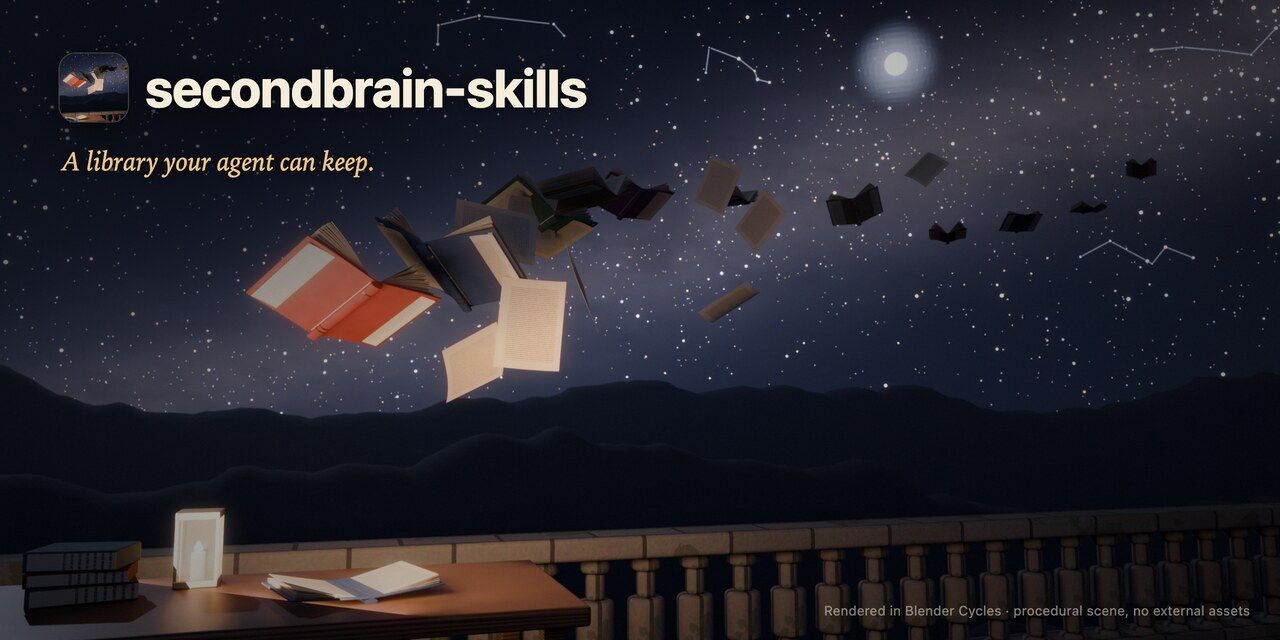
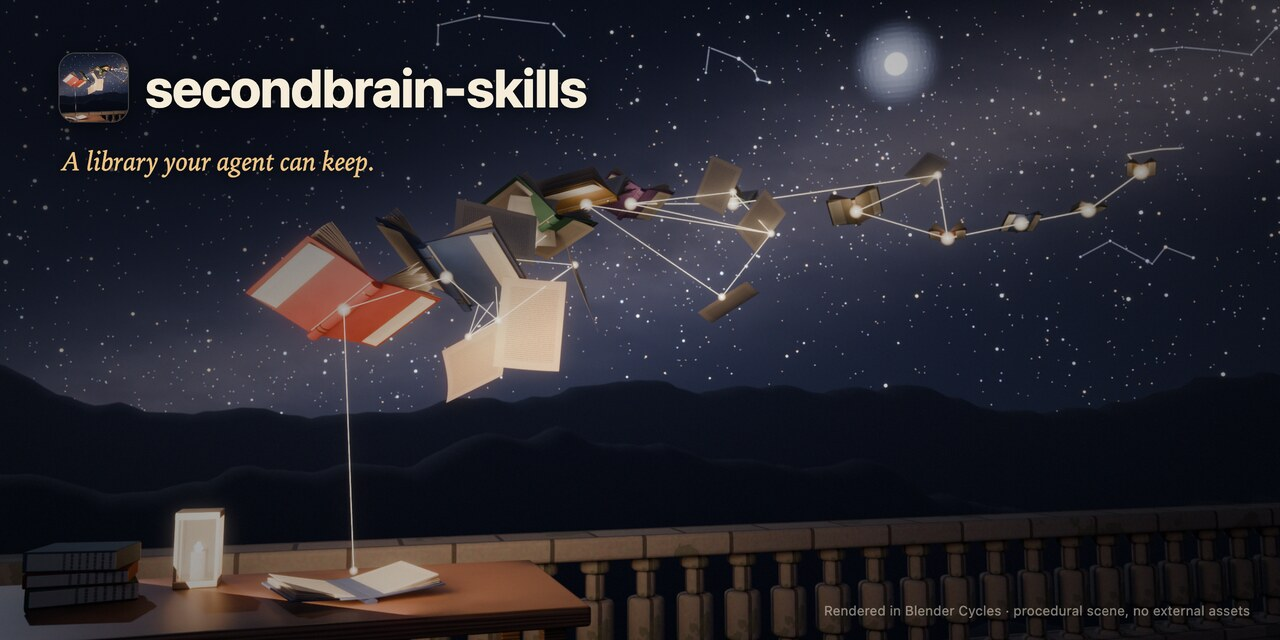
art: link the flying books into a constellation network
Fine straight lines of light, kept at a constant on-screen width, join the
flying books, the loose pages and the open book on the desk into one
network (a spanning tree plus short cross-links); the farthest book links
on into the stars. Each book carries a soft glint so the flock reads as a
constellation.

Checked: python3 scripts/validate.py and claude plugin validate . --strict
pass; render inspected visually.

diff --git a/scripts/art/showcase.py b/scripts/art/showcase.py
@@ -503,6 +503,88 @@ def baluster(x, y, stone):
         o.data.materials.append(stone)
 
 
+# ------------------------------------------------------------------ connections
+def connect(flock, leaves, cam, bright, at, source=None):
+    """The books become stars: a glint in front of each book and fine straight links between them,
+    drawn at a constant on-screen width, with the lead book linked on into a constellation."""
+    rc = random.Random(5)
+    nodes = [p + (cam - p).normalized() * 0.22 for p in flock] + [p + (cam - p).normalized() * 0.08 for p in leaves]
+    n_books = len(flock)
+    # minimum spanning tree plus a few extra short links, so it reads as a network, not a chain
+    inside, edges = {0}, set()
+    while len(inside) < len(nodes):
+        i, j = min(((i, j) for i in inside for j in range(len(nodes)) if j not in inside), key=lambda e: (nodes[e[0]] - nodes[e[1]]).length)
+        edges.add(tuple(sorted((i, j))))
+        inside.add(j)
+    for i in range(len(nodes)):
+        for j in sorted(range(len(nodes)), key=lambda j: (nodes[j] - nodes[i]).length)[1:4]:
+            if rc.random() < 0.6 and (nodes[j] - nodes[i]).length < 3.5:
+                edges.add(tuple(sorted((i, j))))
+    # carry the network on into the sky: the farthest book links to the nearest bright stars
+    lead = max(range(n_books), key=lambda i: (nodes[i] - cam).length)
+    sky = sorted(bright, key=lambda b: (b[0] - cam).normalized().angle((nodes[lead] - cam).normalized()))[:3]
+    sky_pts = [b[0] for b in sky]
+    cu = bpy.data.curves.new("links", "CURVE")
+    cu.dimensions = "3D"
+    cu.bevel_depth = 1.0
+    cu.bevel_resolution = 2
+
+    def seg(a, b):
+        sp = cu.splines.new("POLY")
+        sp.points.add(1)
+        for k, q in enumerate((a, b)):
+            sp.points[k].co = (*q, 1)
+            sp.points[k].radius = (q - cam).length * 0.00026
+    for i, j in edges:
+        seg(nodes[i], nodes[j])
+    if source is not None:
+        first = min(range(n_books), key=lambda i: (nodes[i] - source).length)
+        seg(source, nodes[first])
+        nodes.append(source)
+    prev = nodes[lead]
+    for q in sky_pts:
+        seg(prev, q)
+        prev = q
+    lo = link("links", cu)
+    lm = emissive("link_light", (1.0, 0.78, 0.50), 3.2)
+    lo.data.materials.append(lm)
+    lo.visible_shadow = False
+    # glints: a bright core and a soft halo at every book-node and at the stars it reaches
+    core = emissive("node_core", (1.0, 0.90, 0.72), 30.0)
+    hm = bpy.data.materials.new("node_halo")
+    hm.use_nodes = True
+    hn = hm.node_tree
+    hn.nodes.remove(hn.nodes["Principled BSDF"])
+    lw = node(hn, "ShaderNodeLayerWeight", Blend=0.5)
+    em = node(hn, "ShaderNodeEmission", Color=(1.0, 0.72, 0.40, 1))
+    hn.links.new(mathn(hn, "MULTIPLY", mathn(hn, "POWER", mathn(hn, "SUBTRACT", 1.0, lw.outputs["Facing"]), 5.0), 1.6), em.inputs["Strength"])
+    tr = hn.nodes.new("ShaderNodeBsdfTransparent")
+    add = hn.nodes.new("ShaderNodeAddShader")
+    hn.links.new(tr.outputs[0], add.inputs[0])
+    hn.links.new(em.outputs[0], add.inputs[1])
+    hn.links.new(add.outputs[0], hn.nodes["Material Output"].inputs["Surface"])
+    bc, bh = bmesh.new(), bmesh.new()
+    for k, q in enumerate(nodes):
+        d = (q - cam).length
+        s = 1.0 if k < n_books else 0.6
+        bmesh.ops.create_icosphere(bc, subdivisions=2, radius=d * 0.0011 * s, matrix=Matrix.Translation(q))
+        bmesh.ops.create_icosphere(bh, subdivisions=3, radius=d * 0.008 * s, matrix=Matrix.Translation(q))
+    for nm, bmx, m in (("node_cores", bc, core), ("node_halos", bh, hm)):
+        me = bpy.data.meshes.new(nm)
+        bmx.to_mesh(me)
+        bmx.free()
+        o = link(nm, me)
+        o.data.materials.append(m)
+        o.visible_shadow = False
+    # a little light from each node onto its book
+    for q in nodes[:n_books]:
+        ld = bpy.data.lights.new("nodelight", "POINT")
+        ld.energy = 1.2
+        ld.color = (1.0, 0.75, 0.45)
+        ld.shadow_soft_size = 0.05
+        link("nodelight", ld).location = q
+
+
 # ------------------------------------------------------------------ scene
 def build():
     sc = reset()
@@ -589,6 +671,7 @@ def build():
     so.rotation_euler = (math.radians(62), 0, math.radians(200))
 
     # books in flight: from the desk over the balustrade toward the moon
+    flock, leaves = [], []
     n = 11
     for k in range(n):
         tt = k / (n - 1)
@@ -598,11 +681,14 @@ def build():
         p = at(u, v, depth)
         rot = (math.radians(rnd.uniform(-30, 10)), math.radians(rnd.uniform(-20, 20)), math.radians(rnd.uniform(-50, 50)))
         cd = rnd.uniform(4, 22)
+        flock.append(p)
         book(f"fly{k}", p, rot, rnd.uniform(1.4, 1.8), covers[k % len(covers)], paper, gold, rnd, cd, cd + rnd.uniform(18, 38), bend=-0.35)
     for k in range(9):
         tt = rnd.uniform(0.02, 0.75)
         p = at(0.27 + 0.6 * tt + rnd.uniform(-0.07, 0.07), 0.42 + 0.4 * tt + rnd.uniform(-0.08, 0.08), 2.3 + 9 * tt ** 1.4)
         loose_page(f"loose{k}", p, (rnd.uniform(0, 6), rnd.uniform(0, 6), rnd.uniform(0, 6)), 1.5, paper, rnd)
+        leaves.append(p)
+    connect(flock, leaves, cam, bright, at, Vector((-1.05, 0.85, top + 0.06)))
     # warm bounce from the lantern side onto the nearest books
     fill = bpy.data.lights.new("lanternfill", "AREA")
     fill.energy = 38

diff --git a/README.ko.md b/README.ko.md
@@ -1,5 +1,5 @@
 <p align="center">
-  <img src="assets/brand/splash.jpg" alt="달빛 비치는 돌 테라스의 촛불 켠 책상에서, 은하수와 별자리 아래로 펼친 책들이 난간 너머 날아가는 Blender 렌더" width="100%">
+  <img src="assets/brand/splash.jpg" alt="달빛 비치는 돌 테라스의 촛불 켠 책상에서 펼친 책들이 은하수 아래로 날아가고, 가는 빛의 선이 책들을 서로 이어 별자리로 이어지는 Blender 렌더" width="100%">
 </p>
 
 <p align="center">

diff --git a/README.md b/README.md
@@ -1,5 +1,5 @@
 <p align="center">
-  <img src="assets/brand/splash.jpg" alt="A Blender render: from a candlelit desk on a moonlit stone terrace, open books fly out over the balustrade under the Milky Way and constellations" width="100%">
+  <img src="assets/brand/splash.jpg" alt="A Blender render: from a candlelit desk on a moonlit stone terrace, open books fly out under the Milky Way, linked to one another by fine lines of light that run on into a constellation" width="100%">
 </p>
 
 <p align="center">
